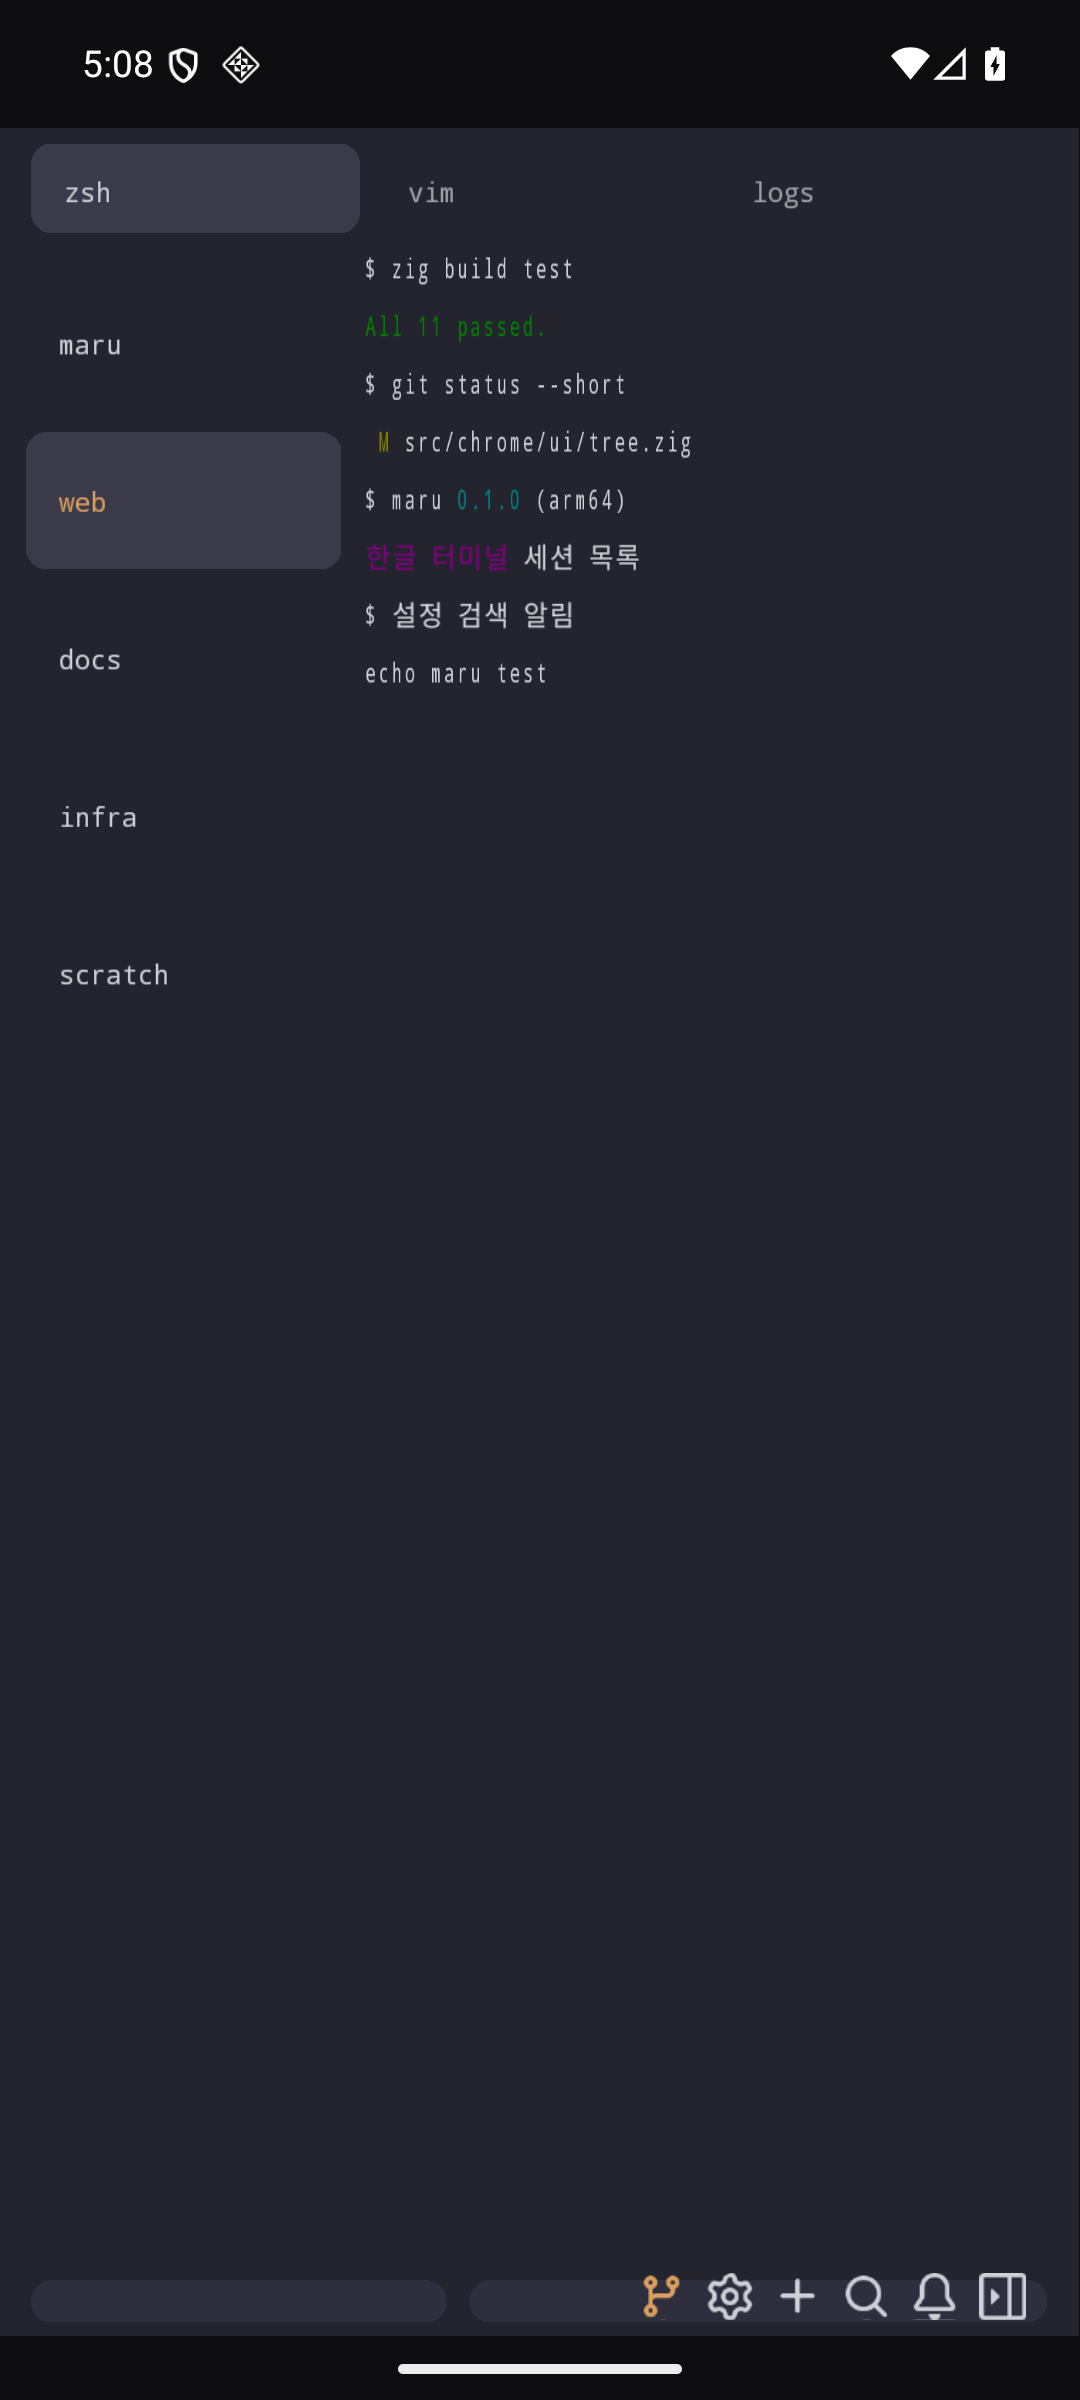
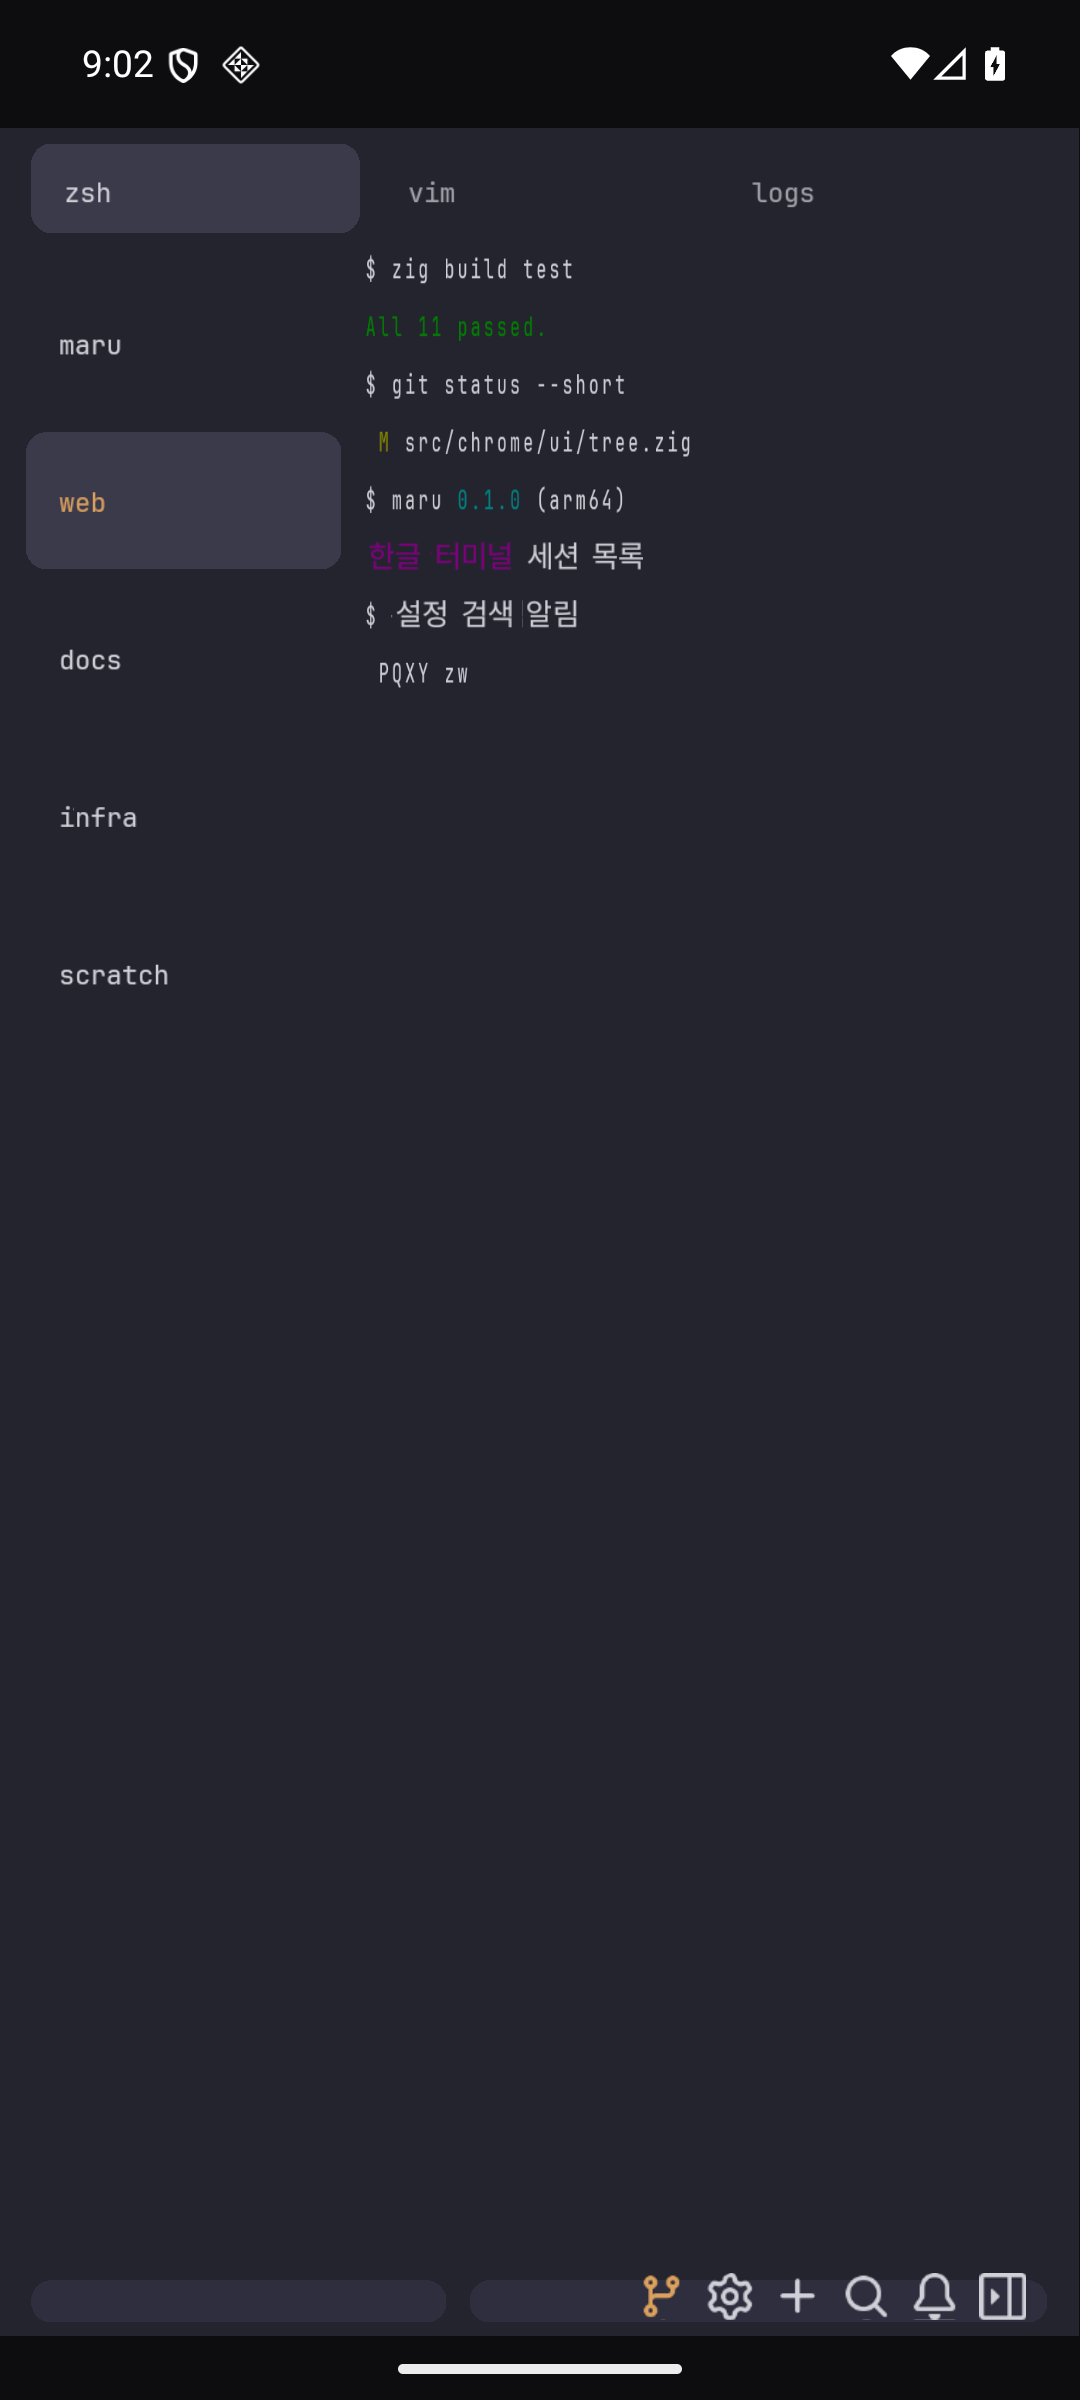
feat(mobile): Android 도 아틀라스를 그때그때 키운다
iOS 만 붙어 있어 비대칭이었다. Android 도 같은 계약으로 맞춘다 — Zig 가 못 찾은
코드포인트를 모으고 플랫폼이 **그 슬롯에만** 구워 올린다.

  - 한 글자 굽기: JNI `Paint` 로, 아틀라스를 처음 만들 때와 **같은 폰트·같은 baseline**
    (CH-8)을 쓴다. 어긋나면 새 글리프만 위아래로 튄다.
  - 그 자리만 올리기: `vkCmdCopyBufferToImage` + `imageOffset`. 이미 셰이더가 읽는
    레이아웃이라 `SHADER_READ_ONLY → TRANSFER_DST → SHADER_READ_ONLY` 로 내렸다 되돌린다.
    iOS `replaceRegion:` 과 같은 자리이고, 둘 다 여섯 기능 4번(부분 업데이트)을 재사용한다.

`drawFrame` 이 `android_app` 을 안 받아 JNI 를 못 쓰므로 `g_app` 으로 들고 있는다.

실측: `adb shell input text "PQXY zw"` → `grew=2`,`grew=1`,`grew=1` 로 나뉘어 구워지고
본문 8행에 `PQXY zw` 가 그려진다.

Changed region(s): [[0.3361, 0.2188, 0.6111, 0.2812]]

diff --git a/tools/mobile-poc/chrome_android_app.c b/tools/mobile-poc/chrome_android_app.c
@@ -44,6 +44,10 @@ extern unsigned int maru_icon_slot_px(void);
 extern unsigned int maru_icon_count(void);
 extern unsigned int maru_term_input(const char *bytes, size_t len);
 extern unsigned int maru_hit_cell(float x, float y);
+extern unsigned int maru_missing_count(void);
+extern unsigned int maru_missing_cp(unsigned int i);
+extern unsigned int maru_next_slot(unsigned int cols);
+extern void maru_missing_clear(void);
 
 typedef struct { float rect_px[4]; float color[4]; float misc[4]; float cell[4]; } Push;
 
@@ -68,6 +72,8 @@ static struct {
     VkSemaphore acquire_sem, submit_sem;
     VkFence fence;
     VkImageView glyph_view, icon_view;
+    VkImage glyph_image;   // 온디맨드 성장은 view 가 아니라 image 에 복사한다
+    uint32_t glyph_w, glyph_h;
     VkDescriptorSet dset;
     uint32_t atlas_cols, atlas_rows;
     float scale;
@@ -83,6 +89,9 @@ static struct {
     int64_t vsync_count;
 } g;
 
+// drawFrame 은 app 을 안 받는다 — 온디맨드 래스터가 JNI 를 쓰려면 필요해서 들고 있는다.
+static struct android_app *g_app = NULL;
+static void growAtlas(struct android_app *app);  // drawFrame 이 먼저라 선언이 필요하다
 static uint8_t *g_glyph_px = NULL;
 static uint32_t g_gw, g_gh;
 
@@ -243,7 +252,7 @@ static VkShaderModule loadSpv(const char *path) {
 }
 
 static int uploadTexture(const uint8_t *pixels, uint32_t w, uint32_t h, uint32_t bpp,
-                         VkFormat fmt, VkImageView *outView) {
+                         VkFormat fmt, VkImageView *outView, VkImage *outImage) {
     VkImageCreateInfo ci = {.sType = VK_STRUCTURE_TYPE_IMAGE_CREATE_INFO, .imageType = VK_IMAGE_TYPE_2D,
                             .format = fmt, .extent = {w, h, 1}, .mipLevels = 1, .arrayLayers = 1,
                             .samples = VK_SAMPLE_COUNT_1_BIT, .tiling = VK_IMAGE_TILING_OPTIMAL,
@@ -318,6 +327,7 @@ static int uploadTexture(const uint8_t *pixels, uint32_t w, uint32_t h, uint32_t
     VkImageViewCreateInfo ivci = {.sType = VK_STRUCTURE_TYPE_IMAGE_VIEW_CREATE_INFO, .image = img,
                                   .viewType = VK_IMAGE_VIEW_TYPE_2D, .format = fmt,
                                   .subresourceRange = {VK_IMAGE_ASPECT_COLOR_BIT, 0, 1, 0, 1}};
+    if (outImage) *outImage = img;
     return vkCreateImageView(g.dev, &ivci, NULL, outView) == VK_SUCCESS;
 }
 
@@ -432,10 +442,13 @@ static int initVulkan(ANativeWindow *win) {
     vkAllocateCommandBuffers(g.dev, &cbai, g.cbs);
 
     // 텍스처: 글리프(호스트 아틀라스) + 아이콘(Zig 가 만든 coverage)
-    if (g_glyph_px) uploadTexture(g_glyph_px, g_gw, g_gh, 1, VK_FORMAT_R8_UNORM, &g.glyph_view);
+    if (g_glyph_px) {
+        uploadTexture(g_glyph_px, g_gw, g_gh, 1, VK_FORMAT_R8_UNORM, &g.glyph_view, &g.glyph_image);
+        g.glyph_w = g_gw; g.glyph_h = g_gh;
+    }
     uint32_t filled = maru_icon_build();
     uint32_t slot = maru_icon_slot_px(), cnt = maru_icon_count();
-    uploadTexture(maru_icon_atlas(), slot, slot * cnt, 4, VK_FORMAT_R8G8B8A8_UNORM, &g.icon_view);
+    uploadTexture(maru_icon_atlas(), slot, slot * cnt, 4, VK_FORMAT_R8G8B8A8_UNORM, &g.icon_view, NULL);
     LOGI("icons filled=%u/%u", filled, cnt);
 
     VkSamplerCreateInfo sampci = {.sType = VK_STRUCTURE_TYPE_SAMPLER_CREATE_INFO,
@@ -536,6 +549,8 @@ static void drawFrame(void) {
     unsigned int lw = (unsigned int)(g.extent.width / scale);
     unsigned int lh = (unsigned int)((g.extent.height - g.inset_top - g.inset_bottom) / scale);
     unsigned int n = maru_chrome_build(lw, lh);
+    // build 가 못 그린 글자를 그 슬롯에만 구워 넣는다 — 다음 프레임에 보인다.
+    if (g_app) growAtlas(g_app);
     const CQuad *quads = maru_chrome_quads();
     if (g.frames == 0) LOGI("quads=%u err=%s logical=%ux%u", n, maru_chrome_last_error(), lw, lh);
 
@@ -724,6 +739,151 @@ static void teardownVulkan(void) {
     LOGI("MARU_LIFECYCLE window_destroyed vulkan_torn_down");
 }
 
+// 한 글자를 셀 크기 버퍼에 굽는다. 아틀라스를 처음 만들 때와 **같은 폰트·같은 배치**를
+// 써야 새로 넣은 글리프가 기존 것과 어긋나지 않는다(baseline = CH-8).
+static int rasterizeOneGlyph(struct android_app *app, uint32_t cp, uint8_t *out,
+                             uint32_t CW, uint32_t CH, uint32_t *advance) {
+    JavaVM *vm = app->activity->vm;
+    JNIEnv *env = NULL;
+    if ((*vm)->AttachCurrentThread(vm, &env, NULL) != 0) return 0;
+    int ok = 0;
+    jclass bmCls = (*env)->FindClass(env, "android/graphics/Bitmap");
+    jclass cfgCls = (*env)->FindClass(env, "android/graphics/Bitmap$Config");
+    jobject cfg = (*env)->GetStaticObjectField(env, cfgCls,
+        (*env)->GetStaticFieldID(env, cfgCls, "ALPHA_8", "Landroid/graphics/Bitmap$Config;"));
+    jobject bmp = (*env)->CallStaticObjectMethod(env, bmCls,
+        (*env)->GetStaticMethodID(env, bmCls, "createBitmap",
+            "(IILandroid/graphics/Bitmap$Config;)Landroid/graphics/Bitmap;"),
+        (jint)CW, (jint)CH, cfg);
+    if (bmp) {
+        jclass cvCls = (*env)->FindClass(env, "android/graphics/Canvas");
+        jobject canvas = (*env)->NewObject(env, cvCls,
+            (*env)->GetMethodID(env, cvCls, "<init>", "(Landroid/graphics/Bitmap;)V"), bmp);
+        jclass pCls = (*env)->FindClass(env, "android/graphics/Paint");
+        jobject paint = (*env)->NewObject(env, pCls,
+            (*env)->GetMethodID(env, pCls, "<init>", "(I)V"), (jint)1);
+        (*env)->CallVoidMethod(env, paint,
+            (*env)->GetMethodID(env, pCls, "setTextSize", "(F)V"), (jfloat)22.0f);
+        (*env)->CallVoidMethod(env, paint,
+            (*env)->GetMethodID(env, pCls, "setColor", "(I)V"), (jint)0xFFFFFFFF);
+        jclass tfCls = (*env)->FindClass(env, "android/graphics/Typeface");
+        jobject face = (*env)->CallStaticObjectMethod(env, tfCls,
+            (*env)->GetStaticMethodID(env, tfCls, "createFromFile",
+                "(Ljava/lang/String;)Landroid/graphics/Typeface;"),
+            (*env)->NewStringUTF(env, "/data/local/tmp/Jetendard-Regular.ttf"));
+        if ((*env)->ExceptionCheck(env)) { (*env)->ExceptionClear(env); face = NULL; }
+        if (face) (*env)->CallObjectMethod(env, paint,
+            (*env)->GetMethodID(env, pCls, "setTypeface",
+                "(Landroid/graphics/Typeface;)Landroid/graphics/Typeface;"), face);
+        jchar unit = (jchar)cp;
+        jstring s = (*env)->NewString(env, &unit, 1);
+        (*env)->CallVoidMethod(env, canvas,
+            (*env)->GetMethodID(env, cvCls, "drawText", "(Ljava/lang/String;FFLandroid/graphics/Paint;)V"),
+            s, (jfloat)1.0f, (jfloat)(CH - 8), paint);
+        jfloat adv = (*env)->CallFloatMethod(env, paint,
+            (*env)->GetMethodID(env, pCls, "measureText", "(Ljava/lang/String;)F"), s);
+        *advance = (uint32_t)(adv + 0.5f);
+        if (*advance == 0) *advance = CW / 2;
+        void *pixels = NULL;
+        AndroidBitmapInfo info;
+        if (AndroidBitmap_getInfo(env, bmp, &info) == 0 &&
+            AndroidBitmap_lockPixels(env, bmp, &pixels) == 0) {
+            for (uint32_t y = 0; y < CH; y++)
+                memcpy(out + y * CW, (uint8_t *)pixels + y * info.stride, CW);
+            AndroidBitmap_unlockPixels(env, bmp);
+            ok = 1;
+        }
+        (*env)->DeleteLocalRef(env, s);
+    }
+    (*vm)->DetachCurrentThread(vm);
+    return ok;
+}
+
+// **아틀라스를 키운다.** 텍스처를 다시 만들지 않고 그 셀 자리에만 복사한다 —
+// 아틀라스 부분 업데이트(여섯 기능 4번)를 그대로 쓴다. iOS `replaceRegion:` 과 같은 자리다.
+static void growAtlas(struct android_app *app) {
+    unsigned int n = maru_missing_count();
+    if (n == 0 || !g.glyph_image || !g.dev) return;
+    const uint32_t CW = 24, CH = 32;
+    uint8_t cell[24 * 32];
+    unsigned int added = 0;
+    for (unsigned int i = 0; i < n; i++) {
+        unsigned int cp = maru_missing_cp(i);
+        if (cp == 0 || cp > 0xFFFF) continue;
+        unsigned int slot = maru_next_slot(g.atlas_cols);
+        uint32_t col = slot >> 16, row = slot & 0xFFFF;
+        if (row >= g.atlas_rows) break;  // 꽉 찼다 — 축출은 이 PoC 범위 밖이다
+        memset(cell, 0, sizeof cell);
+        uint32_t advance = CW / 2;
+        if (!rasterizeOneGlyph(app, cp, cell, CW, CH, &advance)) continue;
+
+        // staging 버퍼 → 이미지의 그 사각형만 복사.
+        VkBufferCreateInfo bci = {.sType = VK_STRUCTURE_TYPE_BUFFER_CREATE_INFO,
+                                  .size = sizeof cell, .usage = VK_BUFFER_USAGE_TRANSFER_SRC_BIT};
+        VkBuffer stage;
+        if (vkCreateBuffer(g.dev, &bci, NULL, &stage) != VK_SUCCESS) continue;
+        VkMemoryRequirements mr; vkGetBufferMemoryRequirements(g.dev, stage, &mr);
+        VkPhysicalDeviceMemoryProperties mp; vkGetPhysicalDeviceMemoryProperties(g.pd, &mp);
+        uint32_t mt = UINT32_MAX;
+        for (uint32_t k = 0; k < mp.memoryTypeCount; k++) {
+            int want = VK_MEMORY_PROPERTY_HOST_VISIBLE_BIT | VK_MEMORY_PROPERTY_HOST_COHERENT_BIT;
+            if ((mr.memoryTypeBits & (1u << k)) && (mp.memoryTypes[k].propertyFlags & want) == want) { mt = k; break; }
+        }
+        VkMemoryAllocateInfo mai = {.sType = VK_STRUCTURE_TYPE_MEMORY_ALLOCATE_INFO,
+                                    .allocationSize = mr.size, .memoryTypeIndex = mt};
+        VkDeviceMemory mem;
+        if (vkAllocateMemory(g.dev, &mai, NULL, &mem) != VK_SUCCESS) { vkDestroyBuffer(g.dev, stage, NULL); continue; }
+        vkBindBufferMemory(g.dev, stage, mem, 0);
+        void *map = NULL;
+        vkMapMemory(g.dev, mem, 0, VK_WHOLE_SIZE, 0, &map);
+        memcpy(map, cell, sizeof cell);
+        vkUnmapMemory(g.dev, mem);
+
+        VkCommandBufferAllocateInfo cbai = {.sType = VK_STRUCTURE_TYPE_COMMAND_BUFFER_ALLOCATE_INFO,
+                                            .commandPool = g.pool, .level = VK_COMMAND_BUFFER_LEVEL_PRIMARY,
+                                            .commandBufferCount = 1};
+        VkCommandBuffer cb;
+        vkAllocateCommandBuffers(g.dev, &cbai, &cb);
+        VkCommandBufferBeginInfo bi = {.sType = VK_STRUCTURE_TYPE_COMMAND_BUFFER_BEGIN_INFO,
+                                       .flags = VK_COMMAND_BUFFER_USAGE_ONE_TIME_SUBMIT_BIT};
+        vkBeginCommandBuffer(cb, &bi);
+        // 이미 셰이더가 읽는 레이아웃이라 transfer 로 내렸다가 되돌린다.
+        VkImageMemoryBarrier tb = {.sType = VK_STRUCTURE_TYPE_IMAGE_MEMORY_BARRIER,
+                                   .oldLayout = VK_IMAGE_LAYOUT_SHADER_READ_ONLY_OPTIMAL,
+                                   .newLayout = VK_IMAGE_LAYOUT_TRANSFER_DST_OPTIMAL,
+                                   .srcQueueFamilyIndex = VK_QUEUE_FAMILY_IGNORED,
+                                   .dstQueueFamilyIndex = VK_QUEUE_FAMILY_IGNORED,
+                                   .image = g.glyph_image,
+                                   .subresourceRange = {VK_IMAGE_ASPECT_COLOR_BIT, 0, 1, 0, 1},
+                                   .srcAccessMask = VK_ACCESS_SHADER_READ_BIT,
+                                   .dstAccessMask = VK_ACCESS_TRANSFER_WRITE_BIT};
+        vkCmdPipelineBarrier(cb, VK_PIPELINE_STAGE_FRAGMENT_SHADER_BIT, VK_PIPELINE_STAGE_TRANSFER_BIT,
+                             0, 0, NULL, 0, NULL, 1, &tb);
+        VkBufferImageCopy region = {.imageSubresource = {VK_IMAGE_ASPECT_COLOR_BIT, 0, 0, 1},
+                                    .imageOffset = {(int32_t)(col * CW), (int32_t)(row * CH), 0},
+                                    .imageExtent = {CW, CH, 1}};
+        vkCmdCopyBufferToImage(cb, stage, g.glyph_image, VK_IMAGE_LAYOUT_TRANSFER_DST_OPTIMAL, 1, &region);
+        tb.oldLayout = VK_IMAGE_LAYOUT_TRANSFER_DST_OPTIMAL;
+        tb.newLayout = VK_IMAGE_LAYOUT_SHADER_READ_ONLY_OPTIMAL;
+        tb.srcAccessMask = VK_ACCESS_TRANSFER_WRITE_BIT;
+        tb.dstAccessMask = VK_ACCESS_SHADER_READ_BIT;
+        vkCmdPipelineBarrier(cb, VK_PIPELINE_STAGE_TRANSFER_BIT, VK_PIPELINE_STAGE_FRAGMENT_SHADER_BIT,
+                             0, 0, NULL, 0, NULL, 1, &tb);
+        vkEndCommandBuffer(cb);
+        VkSubmitInfo si = {.sType = VK_STRUCTURE_TYPE_SUBMIT_INFO, .commandBufferCount = 1, .pCommandBuffers = &cb};
+        vkQueueSubmit(g.queue, 1, &si, VK_NULL_HANDLE);
+        vkQueueWaitIdle(g.queue);
+        vkFreeCommandBuffers(g.dev, g.pool, 1, &cb);
+        vkDestroyBuffer(g.dev, stage, NULL);
+        vkFreeMemory(g.dev, mem, NULL);
+
+        maru_atlas_add(cp, col, row, advance);
+        added++;
+    }
+    maru_missing_clear();
+    if (added) LOGI("MARU_ATLAS grew=%u", added);
+}
+
 static void onAppCmd(struct android_app *app, int32_t cmd) {
     if (cmd == APP_CMD_TERM_WINDOW) {
         teardownVulkan();
@@ -753,6 +913,7 @@ static void frameCallback(int64_t frame_time_ns, void *data) {
 }
 
 void android_main(struct android_app *app) {
+    g_app = app;
     app->onAppCmd = onAppCmd;
     app->onInputEvent = onInputEvent;
     int chor_started = 0;
